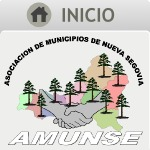
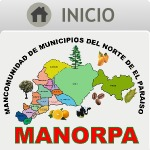
Adaptando todas las cosas y algunos elementos del diseno

diff --git a/manorpa/templates/municipios/municipio_detalle.html b/manorpa/templates/municipios/municipio_detalle.html
@@ -5,27 +5,39 @@
 <script type="text/javascript"> 
 $(document).ready(function() {
     $("#caracterizacion").show();
-    $("#historia").hide();
-    $("#ubicacion").hide();
+    $("#potencialidad").hide();
+    $("#gobierno").hide();
+    $("#enlaces").hide();
     
     $("#caracterizacion_e").click(function(){
         $("#caracterizacion").show();
-        $("#historia").hide();
-        $("#ubicacion").hide();
+        $("#potencialidad").hide();
+        $("#gobierno").hide();
+        $("#enlaces").hide();
         return false;
     });
     
-    $("#historia_e").click(function(){
+    $("#potencialidad_e").click(function(){
         $("#caracterizacion").hide();
-        $("#historia").show();
-        $("#ubicacion").hide();
+        $("#potencialidad").show();
+        $("#gobierno").hide();
+        $("#enlaces").hide();
         return false;
     });
 
-    $("#ubicacion_e").click(function(){
+    $("#gobierno_e").click(function(){
         $("#caracterizacion").hide();
-        $("#historia").hide();
-        $("#ubicacion").show();
+        $("#potencialidad").hide();
+        $("#gobierno").show();
+        $("#enlaces").hide();
+        return false;
+    });
+
+    $("#enlaces_e").click(function(){
+        $("#caracterizacion").hide();
+        $("#potencialidad").hide();
+        $("#gobierno").hide();
+        $("#enlaces").show();
         return false;
     });
 });
@@ -36,8 +48,9 @@ $(document).ready(function() {
         <h2>Municipio de {{m.nombre}}</h2>
         <div id="acciones_municipio">
             <a id ="caracterizacion_e" href="#">Caracterización</a>
-            <a id ="ubicacion_e" href="#">Ubicación</a>
-            <a id ="historia_e" href="#">Historia</a>
+            <a id ="potencialidad_e" href="#">Potencialidades</a>
+            <a id ="gobierno_e" href="#">Gobiernos locales</a>
+            <a id ="enlaces_e" href="#">Enlaces</a>
             <a href="/documentos/{{m.documentacion.categoria.slug}}/{{m.documentacion.slug}}">Documentos</a>
         </div>
 
@@ -46,13 +59,17 @@ $(document).ready(function() {
                 <p><b>CARACTERIZACION</b></p>
                 {{m.caracterizacion|safe}}
             </div>
-            <div id="ubicacion">
-                <p><b>UBICACION</b></p>
-                {{m.ubicacion|safe}}
+            <div id="potencialidad">
+                <p><b>POTENCIALIDADES</b></p>
+                {{m.pontencialidades|safe}}
             </div>
-            <div id="historia">
-                <p><b>HISTORIA</b></p>
-                {{m.historia|safe}}
+            <div id="gobierno">
+                <p><b>GOBIERNO LOCAL</b></p>
+                {{m.gobierno|safe}}
+            </div>
+            <div id="enlaces">
+                <p><b>ENLACES</b></p>
+                {{m.enlaces|safe}}
             </div>
         </div>
         <br>        

diff --git a/manorpa/media/css/estilo.css b/manorpa/media/css/estilo.css
@@ -218,9 +218,11 @@ b{
 
 }
 
-#acordion ul li .submenu_elementos{
-background:#000;
-
+.submenu_elementos{
+    background:#000;
+    margin-left:270px;
+    background:url(../imagen/fondo_submenu.png);
+    height:135px;
 }
 
 #acordion .zona_title{
@@ -234,7 +236,7 @@ background:#000;
     color:#fff;
     padding-left:5px;
     padding-top:5px;
-    margin-bottom:2px;
+
     border-bottom:#d7d7d0 1px solid;
 }
 #acordion ul li .welcome{
@@ -247,18 +249,17 @@ background:#000;
 }
 
 #acordion a, #acordion a:visited{
-    color:#444744;
+    color:#fff;
     font-weight:bold;
     text-decoration:none;
     display:block;
-    height:22px;
+    height:21px;
     width:140px;
     background:url(../imagen/fondo_subenlace.png);
     background-position:left bottom;
-    margin-left:270px;
-    padding-top:7px;
+    font-size:11px;
+    padding-top:5px;
     padding-right:10px;
-    margin-bottom:5px;
     text-align: right;
 }
 
@@ -296,8 +297,15 @@ background:#000;
     background:url(../imagen/fondo_repetido_final.png);
     background-repeat:repeat-y;
     height:132px;
+    margin-bottom:10px;
 }
 
+#pinitos{
+    width:100%;
+    background:url(../imagen/pinitos.jpg);
+    background-repeat:repeat-x;
+    height:170px;
+}
 #contenido_izq{
     width:740px;
 }
@@ -767,8 +775,8 @@ margin-left:4px;
 #acciones_municipio{
     background:#91c45f ;
     background-repeat:no-repeat;
-    width:400px;
-    height:25px;
+    width:560px;
+    height:23px;
     margin-top:-5px;
     margin-bottom:10px;
     padding-top:3px;
@@ -785,8 +793,8 @@ margin-left:4px;
     text-decoration:none;
     color:#fff;
     font-weight:bold;
-    margin-right:15px;
-    font-size:15px;
+    margin-right:10px;
+    font-size:14px;
 }
 
 #acciones_municipio a:hover{
@@ -1089,7 +1097,7 @@ display:block;
 }
 
 #rss{float:right;margin-left:10px;}
-#boton_contacto{float:right;margin-left:140px;}
+#boton_contacto{float:right;margin-left:60px;}
 /* Termina Contenido*/
 
 /* Comienza Footer */
@@ -1105,7 +1113,7 @@ display:block;
     padding-top:15px;
     font-size:12px;
     height:30px;
-    width:620px;
+    width:720px;
     text-align:center;
 }
 

diff --git a/manorpa/templates/base.html b/manorpa/templates/base.html
@@ -3,7 +3,7 @@
 <html xmlns="http://www.w3.org/1999/xhtml">
 <head>
     <meta http-equiv="Content-Type" content="text/html; charset=utf-8" />
-    <title>{%block title%}{%endblock%} AMUNSE</title>
+    <title>{%block title%}{%endblock%} MANORPA</title>
     <link href="{{MEDIA_URL}}css/estilo.css" rel="stylesheet" type="text/css" media="screen" />
     <script type="text/javascript" src="{{MEDIA_URL}}js/jquery-1.4.2.min.js"></script>
     <link REL="SHORTCUT ICON" HREF="{{MEDIA_URL}}/imagen/favicon.ico">
@@ -84,33 +84,22 @@ $(document).ready(function(){
      
      {% endblock %}
      </div>
-  {%cache 900 sidebar%}
+
      <div id="municipios" class="der">
          {%for municipio in municipio%}
             <a href="/municipios/{{municipio.slug}}">{{municipio.nombre}}</a>
          {%endfor%}
      </div>
-   {%endcache%}
+
      <div class="separador"></div>
   </div>
   <div id ="final_contenedor" class="centro"></div>
+  <div id ="pinitos" class="centro"></div>
   <div id="footer">
     <div id="footer_contenedor" class="centro">
-        <img src="{{MEDIA_URL}}/imagen/hoja.png"><b>AMUNSE</b> Asociación de Municipios de Nueva Segovia | Desarrollado por <a href="http://www.simas.org.ni">SIMAS</a> bajo plataforma <a href="http://www.djangoproject.org">Django</a>
+        <b>MANORPA</b> Mancomunidad de Municipios del Norte de el Paraiso | Desarrollado por <a href="http://www.simas.org.ni">SIMAS</a> bajo plataforma <a href="http://www.djangoproject.org">Django</a>
     </div>
   </div>
-<script type="text/javascript">
 
- var _gaq = _gaq || [];
- _gaq.push(['_setAccount', 'UA-19280448-1']);
- _gaq.push(['_trackPageview']);
-
- (function() {
-   var ga = document.createElement('script'); ga.type = 'text/javascript'; ga.async = true;
-   ga.src = ('https:' == document.location.protocol ? 'https://ssl' : 'http://www') + '.google-analytics.com/ga.js';
-   var s = document.getElementsByTagName('script')[0]; s.parentNode.insertBefore(ga, s);
- })();
-
-</script>
 </body>
 </html>

diff --git a/manorpa/templates/inicio.html b/manorpa/templates/inicio.html
@@ -23,8 +23,14 @@
  {%block contenido%}
     <div id="inicio_izq" class="izq">
         <div class="bloque_inicio">
-            <h2>AMUNSE</h2>
-            <img src="{{MEDIA_URL}}/imagen/logo_index.jpg" align="right" style="float:right"><p>AMUNSE  es la asociación de los 12 municipios del departamento de Nueva Segovia, Nicaragua,que nace en 1997;  integrada por las autoridades elegidas y representativas, constituida oficialmente a través de su personería jurídica y estatutos e integrada de forma voluntaria sobre la base de los principios de cooperación mutua, equidad de género, justicia social y pluralismo político que facilita el desarrollo socio económico y cultural en los municipios miembros</p>
+            <h2>MANORPA</h2>
+            <img src="{{MEDIA_URL}}/imagen/logo_index.jpg" align="right" style="float:right">
+            <p>Nisi amet non scelerisque mauris, rhoncus odio porttitor turpis nec rhoncus magna, amet turpis ultricies enim nascetur scelerisque penatibus ac magna magnis nisi augue turpis eu eu, eros, turpis purus dolor natoque? Mauris! Natoque velit, pulvinar. Nascetur, enim! Cras pellentesque! Porttitor lorem augue et est et quis penatibus! Velit porttitor duis ac! Turpis rhoncus? Proin rhoncus integer adipiscing, elementum sit, nunc vut enim in ac dis proin placerat ultrices lectus, velit, proin. Et eu nec et montes scelerisque magna pulvinar, mus. Dictumst, integer ac, auctor eu ac, 
+
+            </p>
+                <div class="enlaces_inicio">
+                    <a class="con_flechita" href="/paginas/servicios">Conoce los servicios</a>
+                </div><br><br>
         </div>
         <div class="bloque_inicio">
             <h2>Próximos Eventos</h2>

diff --git a/manorpa/templates/interna.html b/manorpa/templates/interna.html
@@ -9,17 +9,16 @@
                 <h2>Actualidad</h2>
                 <a href="/noticias">Noticias <img src="{{MEDIA_URL}}/imagen/icono_noticias.png"></a>
                 <a href="/eventos">Eventos <img src="{{MEDIA_URL}}/imagen/icono_evento.png"></a>
-                <a href="/boletines">Boletines <img src="{{MEDIA_URL}}/imagen/icono_boletin.png"></a>
-                <a href="/revistas">Revistas <img src="{{MEDIA_URL}}/imagen/icono_revista.png"></a>
+                <a href="/publicaciones">Publicaciones <img src="{{MEDIA_URL}}/imagen/icono_boletin.png"></a>
                 <a href="/videos">Videos <img src="{{MEDIA_URL}}/imagen/icono_video.png"></a>
         </div>
         <div id="contacto_sidebar">
                 <h2>Contáctenos</h2>
-                    <p style="font-size:11px"><b>Telefono:</b><br> 505-27323533<br>
-                    <b>Email:</b><br> amunseocotal@tubonett.com<br><br>
+                    <p style="font-size:11px"><b>Telefono:</b><br> 504-xxxxxxxx<br>
+                    <b>Email:</b><br> manorpa@algo.com<br><br>
                     
-                    Nueva Segovia<br>
-                    Nicaragua</p>
+                    El Paraíso<br>
+                    Honduras</p>
         </div>
     </div>
     <div id="cuerpo" class="der">

diff --git a/manorpa/templates/boletines/boletines_lista.html b/manorpa/templates/boletines/boletines_lista.html
@@ -1,17 +1,17 @@
 {%extends "interna.html"%}
-{%block title%}Boletines{%endblock%}
+{%block title%}Publicaciones{%endblock%}
 {%block cuerpo%}
-       <h2>Boletines</h2>
+       <h2>Publicaciones</h2>
        <div id="lista">
            {%for boletin in boletines.object_list%}
            <div class="elemento_lista">
                <img src="{{boletin.imagen.url_80x100}}">
-               <div class="titulo"><a href="/boletines/{{boletin.slug}}/">{{boletin.titulo}}</a></div>
+               <div class="titulo"><a href="/publicaciones/{{boletin.slug}}/">{{boletin.titulo}}</a></div>
                <div id="fechas">
                    <b>Fecha de publicación:</b> <img src="{{MEDIA_URL}}imagen/icon_fecha.jpg"> {{boletin.fecha|date:"d M Y"}} 
                </div>
                <br><br>
-               <div class="seguir_leyendo izq"><a class="con_flechita" href="/boletines/{{boletin.slug}}/">Mas información</a></div>
+               <div class="seguir_leyendo izq"><a class="con_flechita" href="/publicaciones/{{boletin.slug}}/">Mas información</a></div>
                <div class="seguir_leyendo izq"><a class="con_flechita" href="/archivos/{{boletin.boletin}}">Descargar</a></div><br>
                <div class="separador"></div>
            </div>

diff --git a/manorpa/templates/proyectos/proyectos_lista_area.html b/manorpa/templates/proyectos/proyectos_lista_area.html
@@ -16,10 +16,10 @@
  {%endblock%}
 
     {%block cuerpo%}
-        <h2>Proyectos de area {{area_sel.nombre}}</h2>
+        <h2>Proyectos de  {{area_sel.nombre}}</h2>
         <div id="acciones">
             <form name="formulario" action="" method="get">
-                        <div class="label">Areas </div>
+                        <div class="label">Ejes </div>
                         <select id="id_categoria" name="area" >  
                             <option value="">-------</option>
                             {%for area in area%}
@@ -34,7 +34,7 @@
             <div class="elemento_lista">
                     <div class="titulo"><a href="/proyectos/{{proyecto.slug}}">{{proyecto.nombre}}</a></div>
                     <div class="categoria_noticia der">
-                    <b>Area:</b> 
+                    <b>Ejes estratégicos:</b> 
                     <i>{{area_sel.nombre}}</i>
                     </div>
                     <div class="separador"></div>

diff --git a/manorpa/templates/proyectos/proyectos_lista.html b/manorpa/templates/proyectos/proyectos_lista.html
@@ -18,7 +18,7 @@
         <h2>Proyectos</h2>
         <div id="acciones">
             <form name="formulario" action="" method="get">
-                        <div class="label">Areas </div>
+                        <div class="label">Ejes </div>
                         <select id="id_categoria" name="area" >  
                             <option value="">-------</option>
                             {%for area in area%}
@@ -33,7 +33,7 @@
             <div class="elemento_lista">
                     <div class="titulo"><a href="/proyectos/{{proyecto.slug}}">{{proyecto.nombre}}</a></div>
                     <div class="categoria_noticia der">
-                    <b>Areas:</b> 
+                    <b>Ejes estratégicos:</b> 
                     <i>{%for area in proyecto.area.all%}
                             <a href="/proyectos/area/{{area.slug}}">{{area}}</a> | 
                         {%endfor%}

diff --git a/manorpa/templates/proyectos/proyecto_detalle.html b/manorpa/templates/proyectos/proyecto_detalle.html
@@ -51,10 +51,9 @@
             </tbody>
             </table>
             <br>
-            <b>OBJETIVOS</b>
-            {{proyecto.objetivos|safe}}<br>
-            <b>RESULTADOS</b>
-            {{proyecto.resultados|safe}}
+            <b>DESCRIPCIÓN</b><br>
+            {{proyecto.descripcion|safe}}<br>
+
         </div>
         <br>
         <div class="separador"></div>

diff --git a/manorpa/templates/boletines/boletin_detalle.html b/manorpa/templates/boletines/boletin_detalle.html
@@ -1,5 +1,5 @@
 {%extends "interna.html"%}
-{%block title%}Boletin - {{boletin.titulo}} {%endblock%}
+{%block title%}Publicación - {{boletin.titulo}} {%endblock%}
 {%block extra_header%}
 {%endblock%}
 {%block cuerpo%}

diff --git a/manorpa/context.py b/manorpa/context.py
@@ -3,9 +3,9 @@ from municipios.models import Municipio
 
 def elementos_fijos(request):
     #TODO: cache
-    menu_primario = MenuPrimario.objects.all()
-    menu_secundario = MenuSecundario.objects.all()
-    municipio = Municipio.objects.all()
+    menu_primario = MenuPrimario.objects.all().order_by('orden')
+    menu_secundario = MenuSecundario.objects.all().order_by('orden')
+    municipio = Municipio.objects.all().order_by('nombre')
     dicc = {
             'menu_secundario': menu_secundario,
             'menu_primario':menu_primario,

diff --git a/manorpa/proyectos/models.py b/manorpa/proyectos/models.py
@@ -29,7 +29,7 @@ class Financiador(models.Model):
         super(Financiador, self).save(force_insert, force_update)
         
 class Area(models.Model):
-    nombre = models.CharField('Área', max_length = 150,unique = True,blank = False, null = False)
+    nombre = models.CharField('Eje Estratégico', max_length = 150,unique = True,blank = False, null = False)
     slug = models.SlugField(max_length = 150, unique = True,help_text = 'unico Valor',editable=False)
 
     def __unicode__(self):
